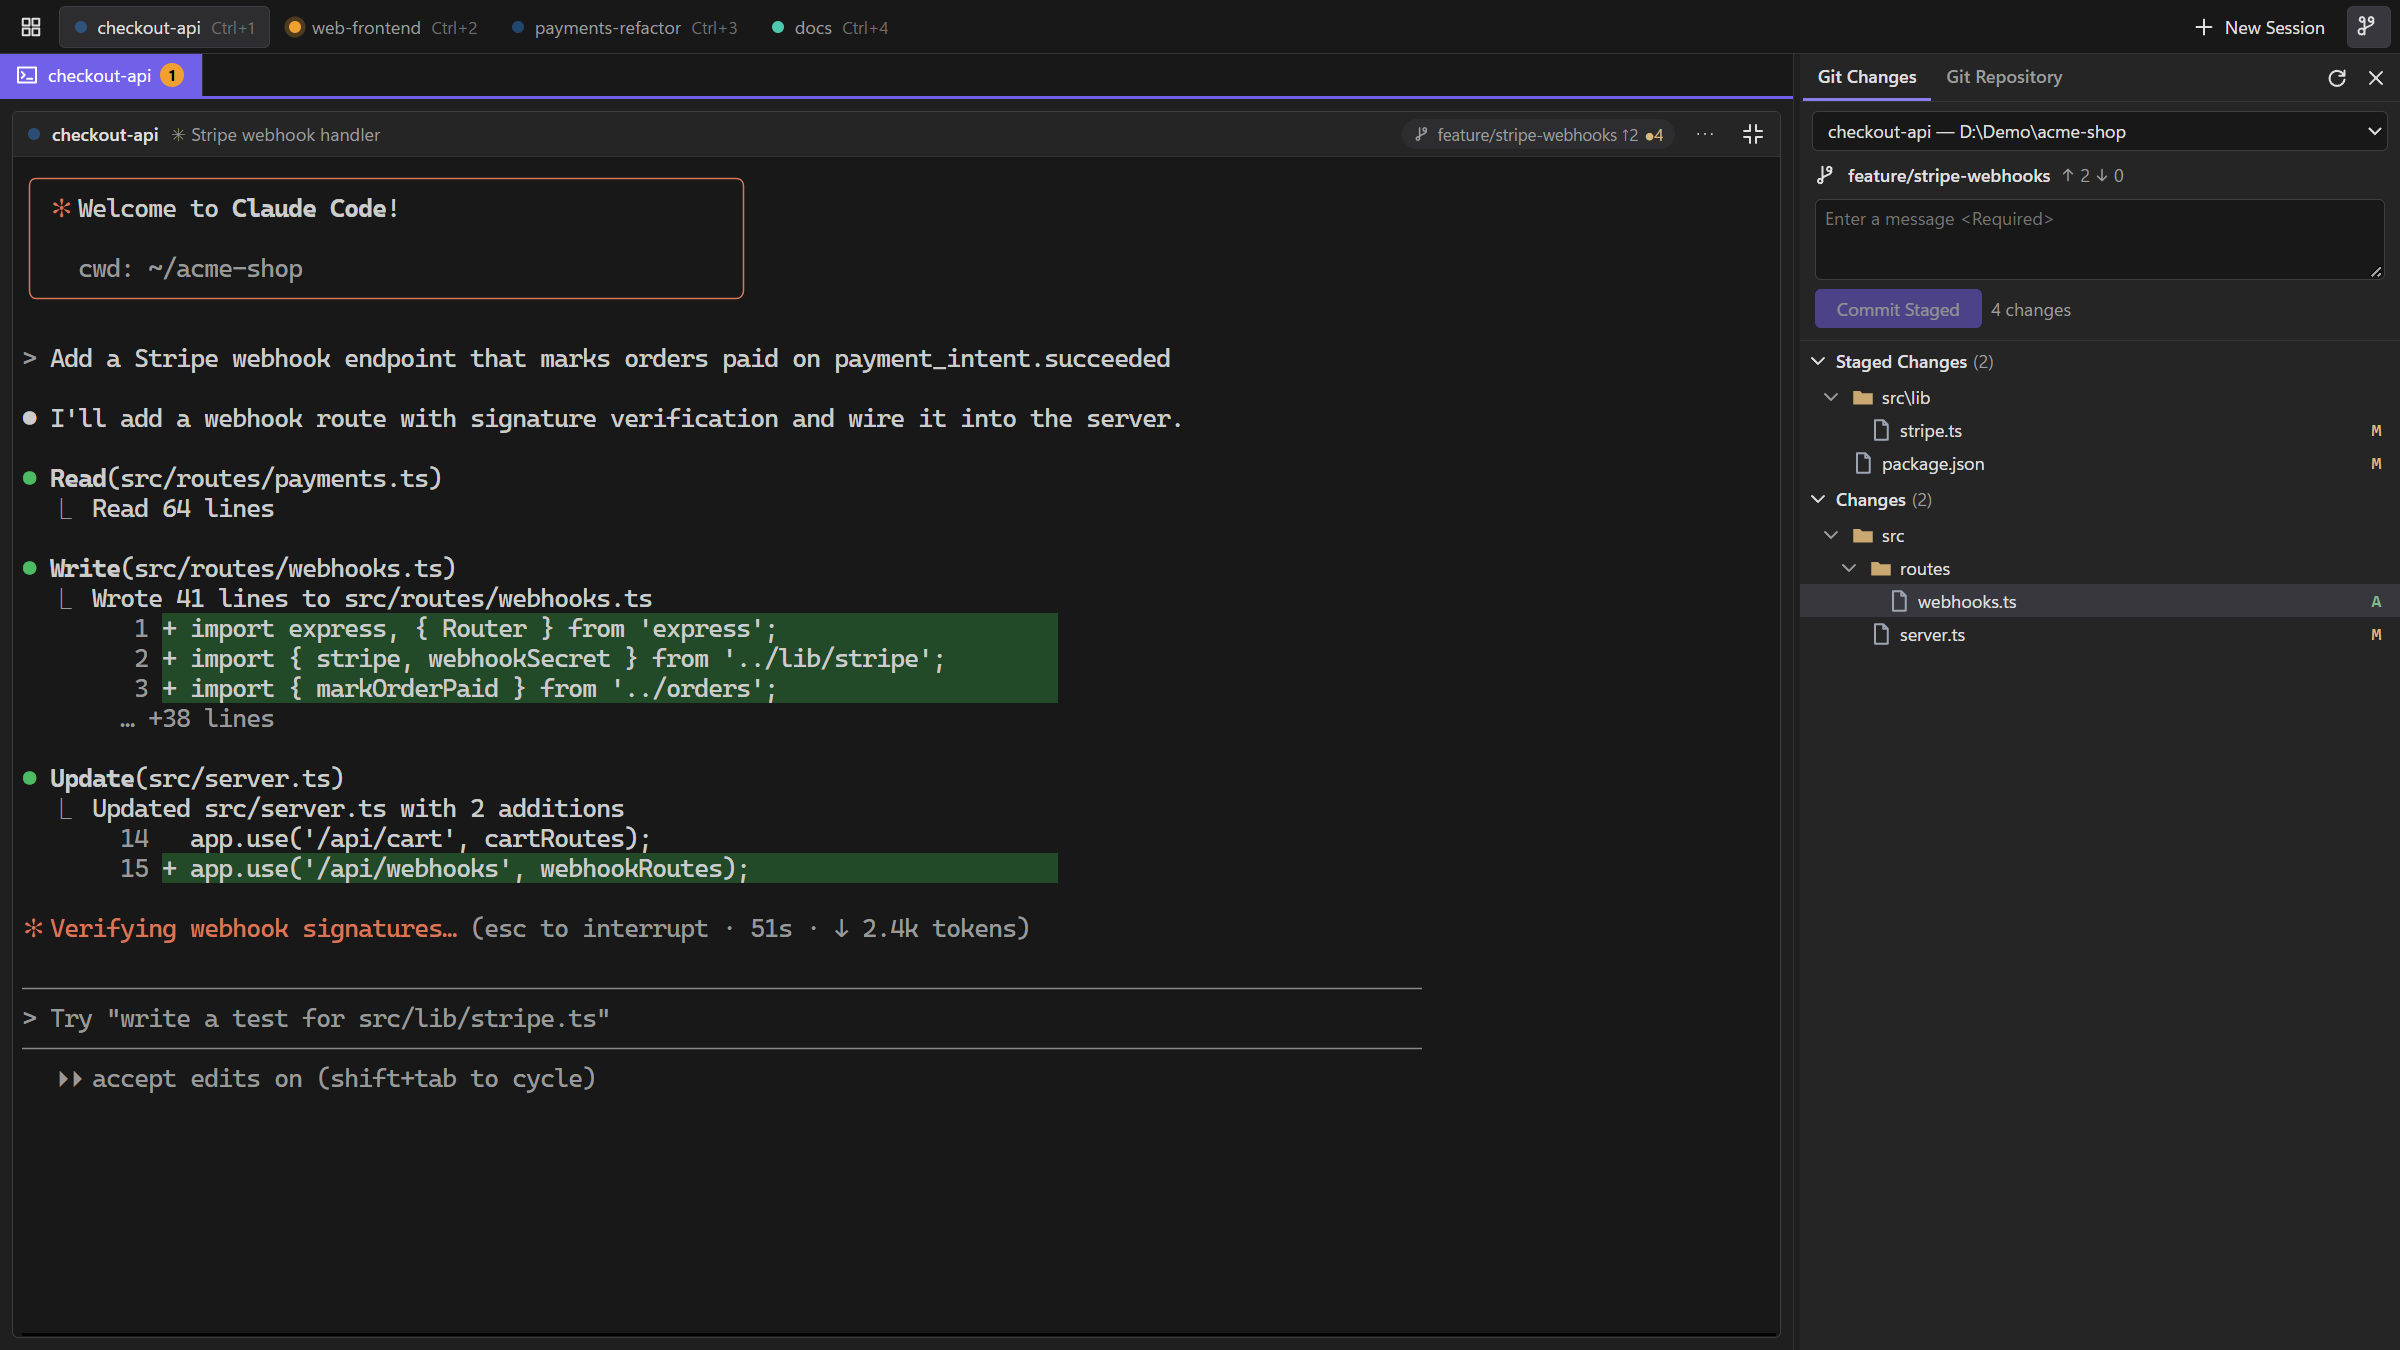
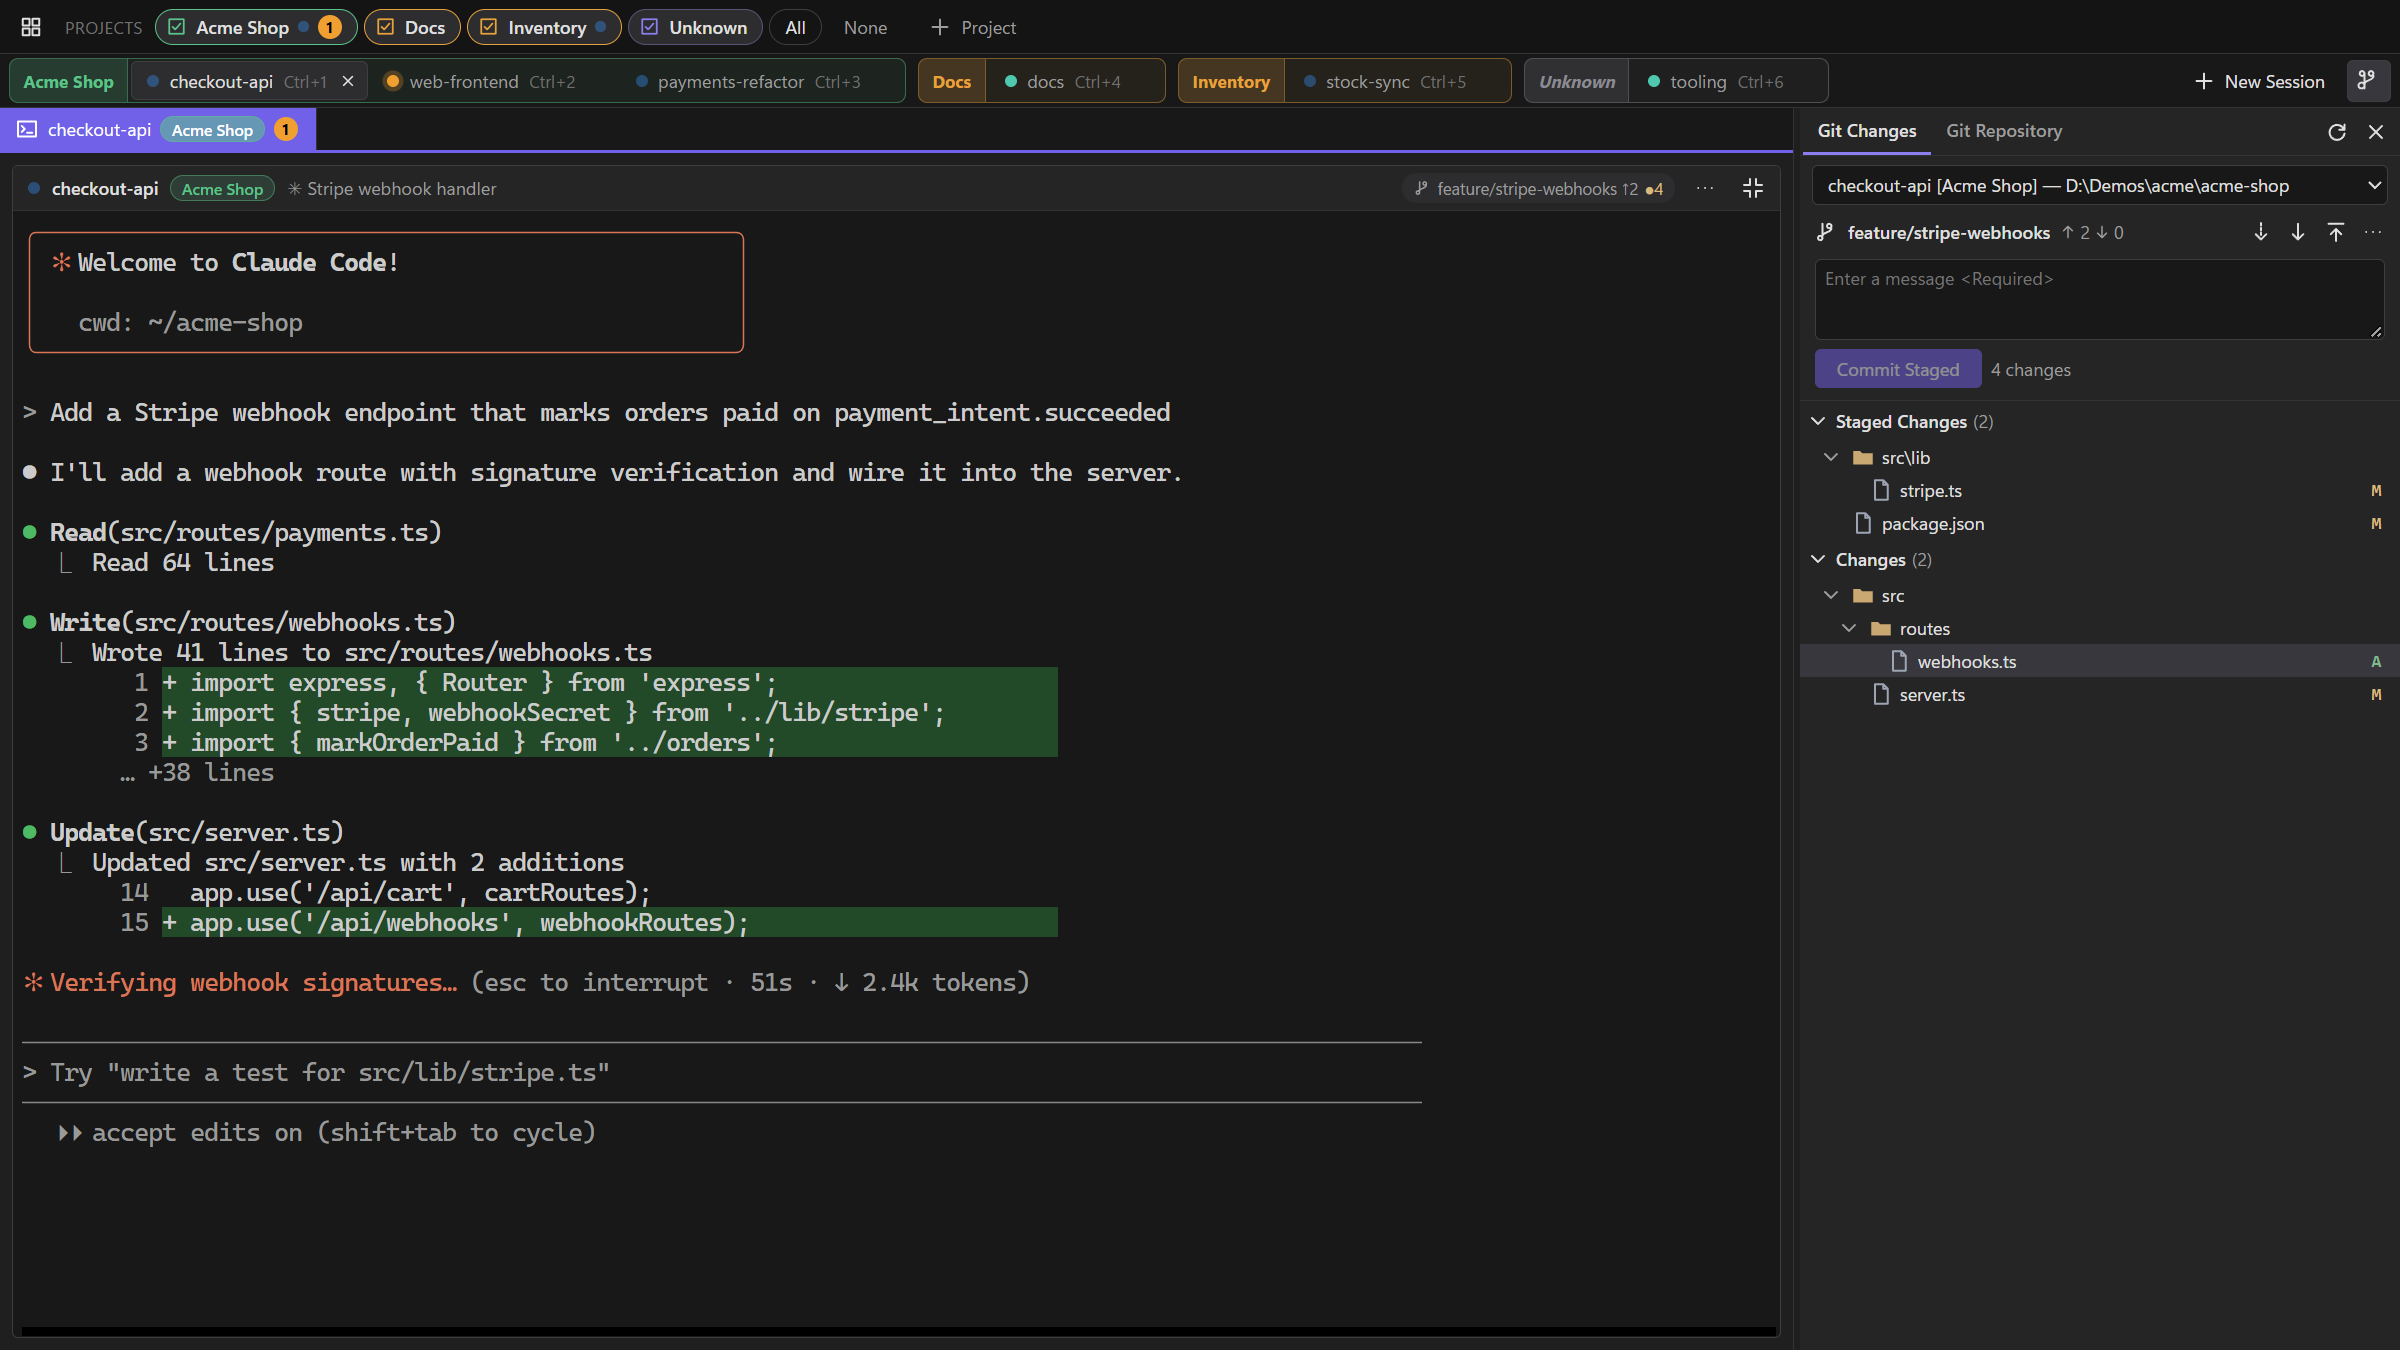
docs: refresh README screenshots for projects and the Git toolbar
The demo now has three projects and a session with none, so the screenshots show
the Projects row (with Inventory unticked), grouped session tabs, project tags and
the fetch/pull/push toolbar. The demo moves to <drive>:\Demos\acme, one level below
the drive root, where tools are allowed to delete it afterwards.

diff --git a/README.md b/README.md
@@ -2,11 +2,13 @@
 
 One window for many local Claude Code sessions, with a Visual Studio–style Git Changes / Git Repository view and diff viewer for each session's worktree.
 
-![All sessions at a glance, with Git Changes for the selected worktree](docs/images/overview.png)
+![Sessions grouped by project, with Git Changes for the selected worktree](docs/images/overview.png)
+
+<sub>Tick projects on and off in the Projects row; each session tab group and tile is tagged with its project.</sub>
 
 <table>
   <tr>
-    <td width="50%"><a href="docs/images/session.png"><img src="docs/images/session.png" alt="An expanded session with its Git Changes"></a><br><sub>Click a tile to work in that session full-size; <code>Shift+Esc</code> goes back.</sub></td>
+    <td width="50%"><a href="docs/images/session.png"><img src="docs/images/session.png" alt="An expanded session with its Git Changes"></a><br><sub>Click a tile to work in that session full-size; <code>Shift+Esc</code> goes back. Fetch, pull and push from the Git toolbar.</sub></td>
     <td width="50%"><a href="docs/images/diff.png"><img src="docs/images/diff.png" alt="Side-by-side diff in a document tab"></a><br><sub>VS-style side-by-side diffs open in tabs next to the terminal.</sub></td>
   </tr>
   <tr>
